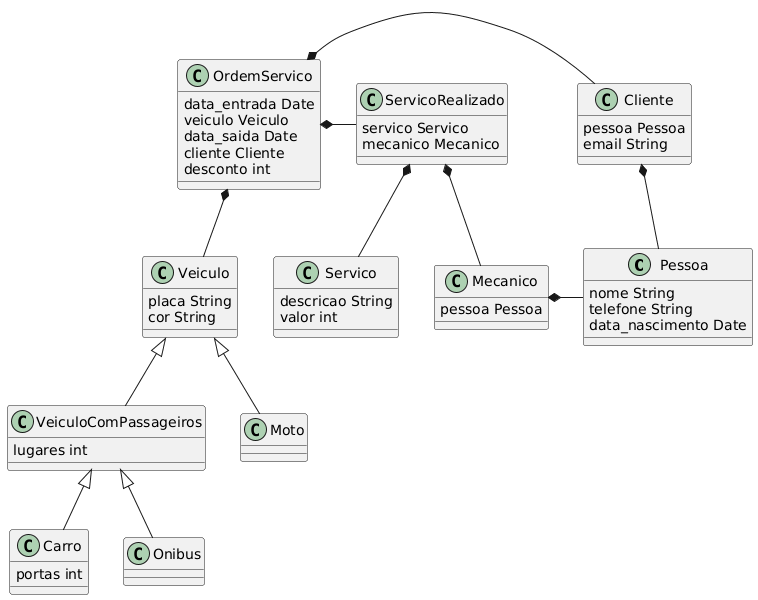
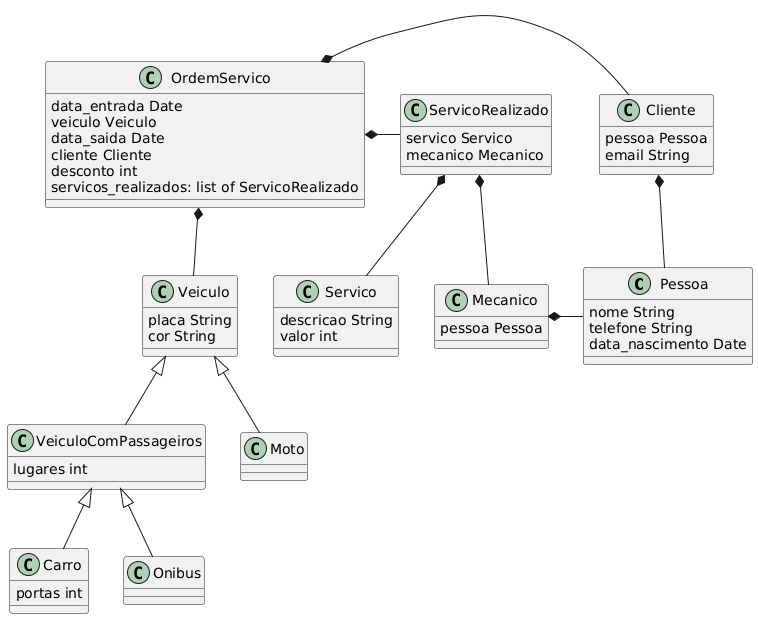
fix:including field in the diagram

diff --git a/oo/basic/python/at_oficina_mecanica/mecanica.py b/oo/basic/python/at_oficina_mecanica/mecanica.py
@@ -1,0 +1,13 @@
+class Servico:
+    def __init__(self, descricao, valor):
+        self.descricao = descricao
+        self.valor = valor
+    def __str__(self):
+        return f'''
+        Descrição do serviço: {self.descricao}
+        Valor: {self.valor}
+        '''
+
+s1 = Servico("Troca de óleo", 50)
+#print(s1.descricao, s1.valor)
+print(s1)
